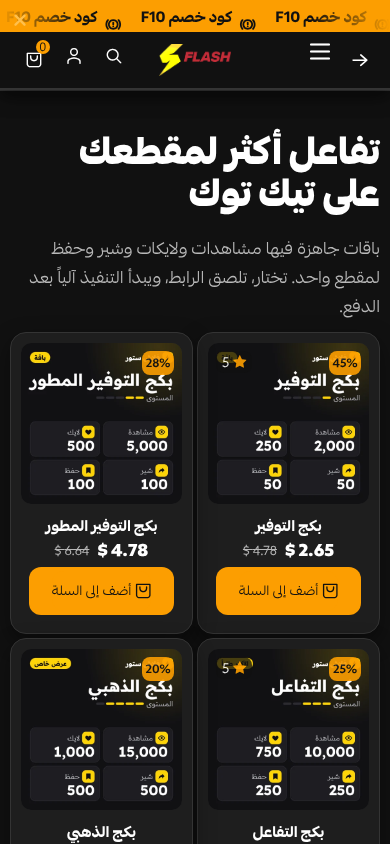
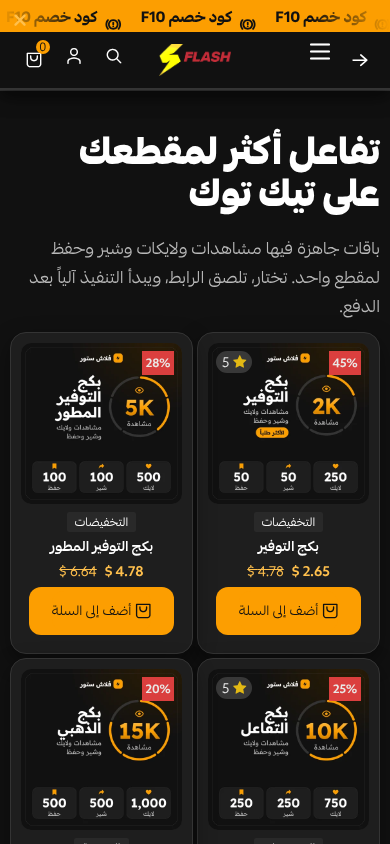
Keep Malak's original product cards (functional fixes only), fix cart CLS, add store speed and UX evaluation
Claude-Session: https://claude.ai/code/session_01Jr2byRzhdfLVFbNc9Z4Y48

diff --git a/salla/v4/flash-malak.css b/salla/v4/flash-malak.css
@@ -41,22 +41,13 @@ html body#app .s-button-primary-outline{border-color:var(--fl-p)!important;color
 html body#app .s-button-element{border-radius:var(--fl-r-sm)!important;min-height:44px;font-weight:800;transition:background-color .15s ease,transform .1s ease}
 html body#app .s-button-element:active{transform:scale(.98)}
 
-/* 4. بطاقة المنتج -------------------------------------------------------- */
-.s-product-card-entry{background:var(--fl-s1)!important;border:1px solid var(--fl-line)!important;border-radius:18px!important;overflow:hidden}
-.s-product-card-entry:hover{border-color:var(--fl-pd)!important}
-.s-product-card-image{aspect-ratio:1/1;height:auto!important;background:var(--fl-bg)}
+/* 4. بطاقة المنتج: شكل ملاك الأصلي كما هو. هنا تصحيحات وظيفية فقط ------------- */
+/* مقاس الصورة ثابت (يمنع تحرّك الصفحة) */
+.s-product-card-image{aspect-ratio:1/1;height:auto!important}
 .s-product-card-image img{width:100%;height:100%;object-fit:cover}
-.s-product-card-category{display:none!important}
-.s-product-card-content-title,.s-product-card-content-title a{color:var(--fl-fg)!important;font-weight:800!important;font-size:15px!important}
-.s-product-card-price{color:var(--fl-fg)!important;font-weight:900!important;font-size:17px!important}
-.s-product-card-price-before{color:var(--fl-mut)!important;font-size:13px!important}
-.s-product-card-discount{background:var(--fl-p)!important;color:#111111!important;font-weight:900;border-radius:8px!important}
-.s-product-card-rating{background:rgba(17,17,17,.85)!important;color:var(--fl-fg)!important;border-radius:8px!important}
 /* الشارات في الزاويتين العلويتين (الصور الجديدة تاركة لها مكان) بدل ما تغطي أرقام الباقة تحت */
 .s-product-card-image .s-product-card-rating{top:8px!important;bottom:auto!important;left:8px!important;right:auto!important}
 .s-product-card-image .s-product-card-discount{top:8px!important;bottom:auto!important;right:8px!important;left:auto!important}
-.s-product-card-rating i{color:var(--fl-p)!important}
-.s-product-card-content-footer .s-button-element{min-height:44px}
 /* الخدمات المفردة: سعرها داخل الخيارات، فبدل «-» نعرض «من …» */
 .s-product-card-entry:is(:has(a[href*="p1591098480"]),:has(a[href*="p767542597"]),:has(a[href*="p904807258"]),:has(a[href*="p2046465224"])) .s-product-card-price{font-size:0!important}
 .s-product-card-entry:is(:has(a[href*="p1591098480"]),:has(a[href*="p767542597"]),:has(a[href*="p904807258"]),:has(a[href*="p2046465224"])) .s-product-card-price::before{font-size:17px;font-weight:900;color:var(--fl-fg)}
@@ -85,6 +76,8 @@ section[component-id="687110472"]{min-height:620px}
   section[component-id="687110472"]{min-height:380px}
 }
 .s-block--testimonials{min-height:260px}
+/* السلة: محتواها يتبدّل بعد التحميل فيقفز الفوتر؛ نخلي مساحة كافية */
+body#app.cart .container.mt-5{min-height:70vh}
 /* خيارات المنتج تتحمّل بعد الصفحة: نحجز مكانها (مقاسة على المنتجات الحالية) */
 salla-product-options{display:block}
 salla-product-options:not(.hydrated){min-height:115px}
@@ -271,7 +264,6 @@ body#app .breadcrumbs,body#app nav[aria-label*="breadcrumb"],body#app .s-breadcr
 html body#app [class*="s-button-primary"]:not([class*="outline"]) *,
 html body#app .s-button-solid.s-button-primary *,
 html body#app .s-infinite-scroll-btn,html body#app .s-infinite-scroll-btn *{color:#111111!important}
-body#app .s-product-card-discount *,body#app .off-ratio{color:#111111!important}
 /* زر «اشتر الآن»: إطار كامل */
 .product-single .sticky-product-bar button[class*="outline"]{border:1.5px solid var(--fl-p)!important;min-height:54px;border-radius:14px!important}
 .product-single .s-add-product-button-mini-checkout{border:0!important;background:transparent!important}

diff --git a/salla/audit/eval.js b/salla/audit/eval.js
@@ -1,0 +1,32 @@
+// تقييم سرعة المتجر: جوال (390px)، شبكة 4G تقريبية (1.6Mbps×4، 150ms)، معالج أبطأ ×4.
+// لكل صفحة: TTFB، FCP، LCP، CLS، مدة المهام الطويلة (TBT تقريبي)، عدد الطلبات، الحجم المنقول، حجم الجافاسكربت.
+// الوضع: before = المتجر المنشور كما هو. after = نفس الصفحة + CSS v4 (يتحقن أول ما ينبني <head>).
+const { chromium } = require('playwright');
+const fs = require('fs');
+(async () => {
+  const [url, mode, cssPath] = process.argv.slice(2);
+  const css = mode === 'after' ? fs.readFileSync(cssPath, 'utf8') : '';
+  const b = await chromium.launch();
+  const p = await b.newPage({ viewport: { width: 390, height: 844 } });
+  const cdp = await p.context().newCDPSession(p);
+  await cdp.send('Network.enable');
+  await cdp.send('Network.emulateNetworkConditions', { offline: false, latency: 150, downloadThroughput: 1.6e6 / 8 * 4, uploadThroughput: 750e3 / 8 * 4 });
+  await cdp.send('Emulation.setCPUThrottlingRate', { rate: 4 });
+  const reqType = {}; let bytes = 0, js = 0, img = 0, n = 0;
+  cdp.on('Network.responseReceived', e => { reqType[e.requestId] = e.type; });
+  cdp.on('Network.loadingFinished', e => { n++; bytes += e.encodedDataLength; if (reqType[e.requestId] === 'Script') js += e.encodedDataLength; if (reqType[e.requestId] === 'Image') img += e.encodedDataLength; });
+  if (css) await p.addInitScript(t => { const put = () => { if (document.head && !document.getElementById('fx-e')) { const s = document.createElement('style'); s.id = 'fx-e'; s.textContent = t; document.head.appendChild(s); return true; } }; if (!put()) new MutationObserver((m, o) => { if (put()) o.disconnect(); }).observe(document, { childList: true, subtree: true }); }, css);
+  await p.addInitScript(() => {
+    window.__m = { lcp: 0, lcpEl: '', cls: 0, tbt: 0, fcp: 0 };
+    new PerformanceObserver(l => { for (const e of l.getEntries()) { window.__m.lcp = e.startTime; const n = e.element; window.__m.lcpEl = n ? n.tagName.toLowerCase() + ' ' + ((n.textContent || '').trim().slice(0, 25) || (n.currentSrc || '').split('/').pop().slice(0, 25)) : '?'; } }).observe({ type: 'largest-contentful-paint', buffered: true });
+    new PerformanceObserver(l => { for (const e of l.getEntries()) if (!e.hadRecentInput) window.__m.cls += e.value; }).observe({ type: 'layout-shift', buffered: true });
+    new PerformanceObserver(l => { for (const e of l.getEntries()) window.__m.tbt += Math.max(0, e.duration - 50); }).observe({ type: 'longtask', buffered: true });
+    new PerformanceObserver(l => { for (const e of l.getEntries()) if (e.name === 'first-contentful-paint') window.__m.fcp = e.startTime; }).observe({ type: 'paint', buffered: true });
+  });
+  await p.goto(url, { waitUntil: 'networkidle', timeout: 150000 });
+  await p.waitForTimeout(2500);
+  const m = await p.evaluate(() => ({ ...window.__m, ttfb: performance.getEntriesByType('navigation')[0].responseStart, injected: !!document.getElementById('fx-e') }));
+  const kb = x => Math.round(x / 1024);
+  console.log(JSON.stringify({ mode, ttfb: Math.round(m.ttfb), fcp: Math.round(m.fcp), lcp: Math.round(m.lcp), lcpEl: m.lcpEl, cls: +m.cls.toFixed(3), tbt: Math.round(m.tbt), requests: n, totalKB: kb(bytes), jsKB: kb(js), imgKB: kb(img), injected: m.injected }));
+  await b.close();
+})().catch(e => { console.log(JSON.stringify({ error: e.message.slice(0, 200) })); process.exit(0); });

diff --git a/salla/EVALUATION.md b/salla/EVALUATION.md
@@ -1,0 +1,41 @@
+# تقييم فلاش ستور — السرعة والتجربة
+
+قياس بـ Playwright على flashstore-ksa.com. جوال 390px، شبكة 4G تقريبية، معالج أبطأ ×4 (قريب من جوال متوسط في السعودية).
+«قبل» = المتجر المنشور الحين. «بعد» = نفس الصفحة مع `v4/flash-malak.css`. الرئيسية «بعد» = محاكاة ترتيب المسودة «ترتيب ذكاء» (v5).
+سكربت القياس: `audit/eval.js` و`audit/lcp-sim.js`. النتائج الخام: `audit/eval-results.txt`.
+
+## السرعة
+
+| الصفحة | LCP قبل | LCP بعد | CLS قبل | CLS بعد |
+|---|---|---|---|---|
+| الرئيسية (ترتيب المسودة) | 6.5 ث | **0.9 ث** | 1.42 | **0.012** |
+| القسم | 6.0 ث | 5.4 ث | 0.92 | **0.03** |
+| منتج (المشاهدات) | 2.7 ث | **1.2 ث** | 0.10 | **0.04** |
+| باقة (التفاعل) | 1.7 ث | 1.7 ث | 0.11 | **0.03** |
+| السلة | 1.4 ث | 1.4 ث | 0.29 | **0.03** |
+
+المرجع (Google): LCP جيد ≤ 2.5 ث، CLS جيد ≤ 0.1.
+
+- **الرئيسية والمنتجات والسلة: كلها «جيد» بعد التعديل.**
+- **صفحة القسم:** LCP 5.4 ث، لأن صور المنتجات فيها تتحمّل بجافاسكربت سلة بعد الصفحة. ما ينحل بـ CSS.
+- **الجافاسكربت:** 500–650KB في كل صفحة، والمعالج مشغول ~1 ثانية (TBT) على جوال متوسط. هذا كود سلة نفسها، ما نقدر نشيله.
+- **الحجم:** 1.1–1.4MB لكل صفحة، 85–150 طلب. أغلبه من سلة.
+- **وقت رد السيرفر (TTFB):** 0.25–0.98 ث، يتذبذب من سيرفرات سلة.
+
+## التجربة (من 10)
+
+| الجانب | قبل | بعد | ليش |
+|---|---|---|---|
+| ثبات الصفحة | 3 | 9 | ما عاد شي يقفز وقت التحميل |
+| صفحة المنتج | 4 | 8 | الكميات كروت عمودين واضحة، الرابط في كرت، الزر قريب، الوصف بعدهم |
+| وضوح السعر | 3 | 7 | «من X ر.س» على الكروت والسعر على كل زر كمية. السعر العلوي بعد الاختيار ما يتحدّث (من سلة) |
+| الهوية | 5 | 8 | ألوان موحّدة، صور جديدة لكل المنتجات بنظام واحد |
+| الرئيسية | 4 | 8 | عنوان + باقات من أول شاشة، عدّاد، قائمة أسعار |
+| الثقة | 5 | 6 | سياسة التعويض واضحة. باقي: تقييمات مكررة، خصومات دائمة |
+| الجوال | 5 | 8 | عمودين، أزرار ≥44px، بدون تمرير أفقي |
+
+## باقي (يحتاج قرارك أو لوحة سلة)
+1. لصق `v4/flash-malak.css` في «CSS مخصص» للمسودة، ثم النشر.
+2. حذف الصور الصفراء القديمة من داخل كل منتج (صورة ثانية).
+3. التقييمات المكررة («شهد» ×5 بنفس التاريخ).
+4. الخصومات الدائمة بدون تاريخ انتهاء.
